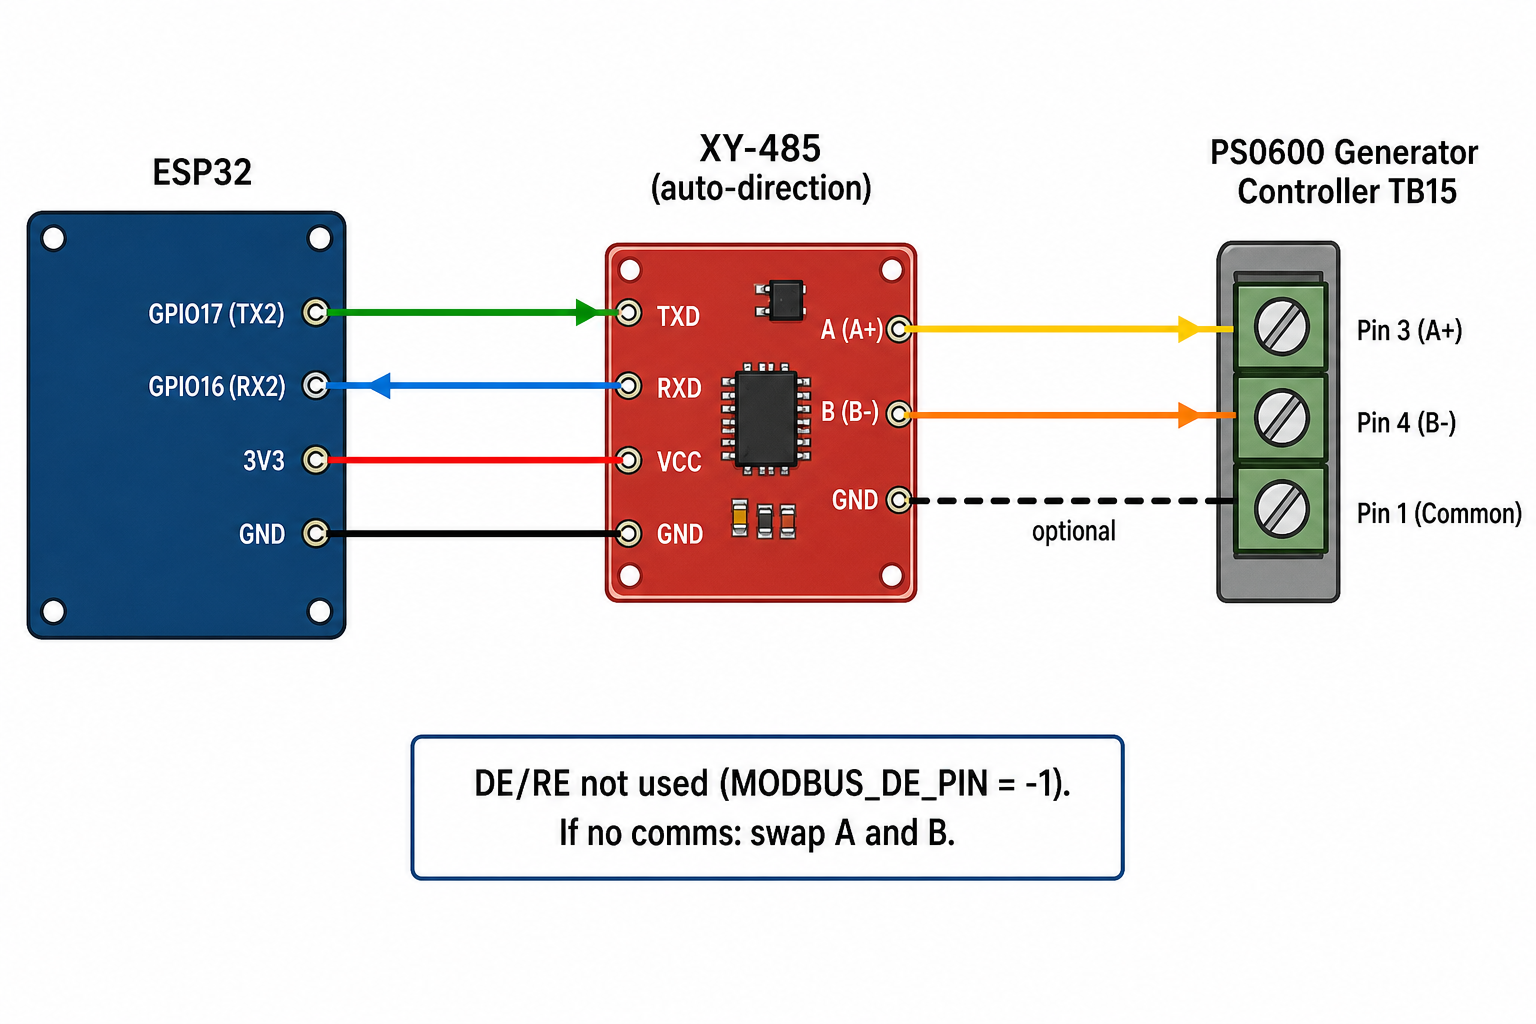
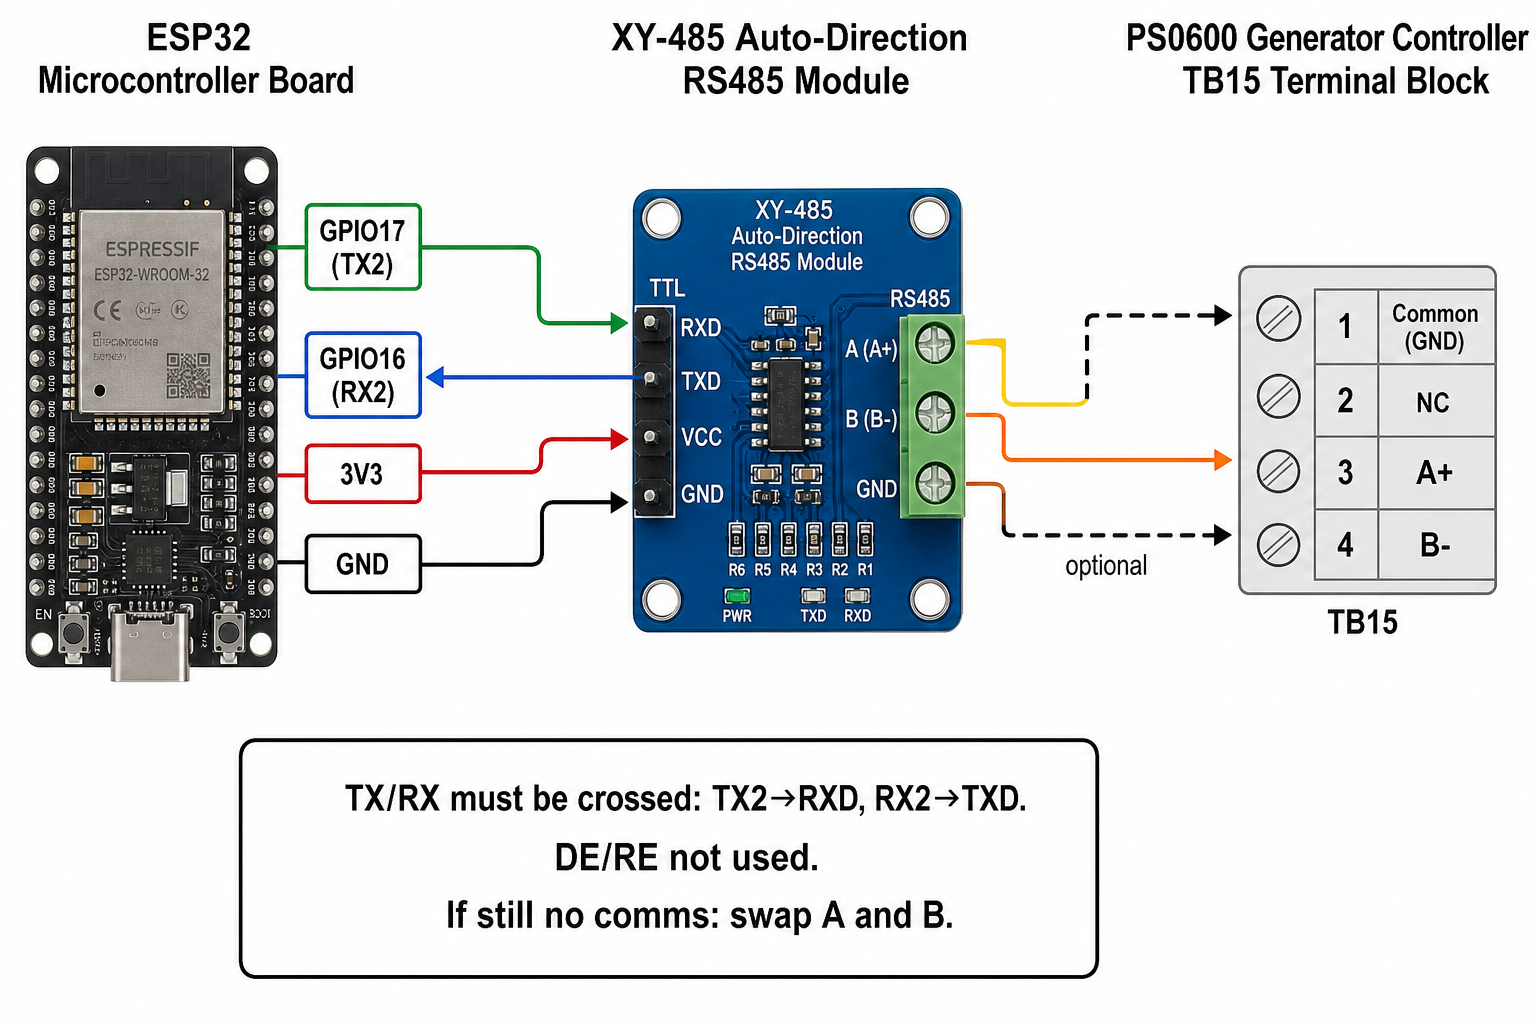
Fix RS485 wiring diagram: cross TX2 to RXD and RX2 to TXD.
The previous straight TX-to-TXD wiring blocked all Modbus traffic; update dashboard table, troubleshooting order, and error hint.

diff --git a/docs/index.html b/docs/index.html
@@ -597,7 +597,8 @@
       <div class="card">
         <div class="card-title">ESP32 → XY-485 → PS0600 (Cummins C22D5)</div>
         <p class="small muted" style="margin-bottom:14px">
-          Modbus RTU 8N1 • GPIO16=RX2, GPIO17=TX2 • DE/RE δεν χρησιμοποιείται (auto-direction XY-485)
+          Modbus RTU 8N1 • GPIO16=RX2, GPIO17=TX2 • DE/RE δεν χρησιμοποιείται (auto-direction XY-485)<br>
+          <b>TX/RX σταυρωτά:</b> TX2→RXD, RX2→TXD (τα labels TXD/RXD είναι από την πλευρά του module)
         </p>
         <img class="wiring-img" src="esp32_xy485_ps0600_wiring.png" alt="Διάγραμμα καλωδίωσης ESP32 XY-485 PS0600" loading="lazy" />
       </div>
@@ -607,8 +608,8 @@
           <table class="wire-table">
             <thead><tr><th>ESP32</th><th>XY-485</th><th>Χρώμα</th></tr></thead>
             <tbody>
-              <tr><td>GPIO17 (TX2)</td><td>TXD</td><td><span class="wire-dot" style="background:#22c55e"></span>Πράσινο</td></tr>
-              <tr><td>GPIO16 (RX2)</td><td>RXD</td><td><span class="wire-dot" style="background:#3b82f6"></span>Μπλε</td></tr>
+              <tr><td>GPIO17 (TX2)</td><td>RXD</td><td><span class="wire-dot" style="background:#22c55e"></span>Πράσινο</td></tr>
+              <tr><td>GPIO16 (RX2)</td><td>TXD</td><td><span class="wire-dot" style="background:#3b82f6"></span>Μπλε</td></tr>
               <tr><td>3V3</td><td>VCC</td><td><span class="wire-dot" style="background:#ef4444"></span>Κόκκινο</td></tr>
               <tr><td>GND</td><td>GND</td><td><span class="wire-dot" style="background:#94a3b8"></span>Μαύρο</td></tr>
             </tbody>
@@ -629,7 +630,8 @@
       <div class="card">
         <div class="card-title">Troubleshooting</div>
         <ul class="small muted" style="padding-left:18px;line-height:1.7">
-          <li>Αν βλέπεις <code>modbus 40009</code>: πρώτα <b>αντάλλαξε A↔B</b></li>
+          <li>Αν βλέπεις <code>modbus 40009</code>: πρώτα <b>σταύρωσε TX/RX</b> (TX2→RXD, RX2→TXD) — όχι TX→TXD</li>
+          <li>Μετά, αν χρειάζεται: <b>αντάλλαξε A↔B</b></li>
           <li>Έλεγξε slave ID και baud (συνήθως 9600 ή 19200, 8N1) στο μενού PS0600</li>
           <li>Για μακρύ καλώδιο (&gt;10m): termination 120Ω στα άκρα</li>
           <li>Μην συνδέσεις DE/RE — το module είναι auto-direction</li>

diff --git a/ESP32_Control/cummins_gen.h b/ESP32_Control/cummins_gen.h
@@ -410,7 +410,7 @@ struct GenManager {
       case 0: {
         uint16_t a[5];
         if (!readBlock(CUMMINS_REG_CONTROLLER, 5, a)) {
-          data.lastError = "modbus 40009 - check RS485 wiring";
+          data.lastError = "modbus 40009 - check TX/RX crossover (TX2→RXD, RX2→TXD) and RS485";
           pollStep = 0;
           return false;
         }
